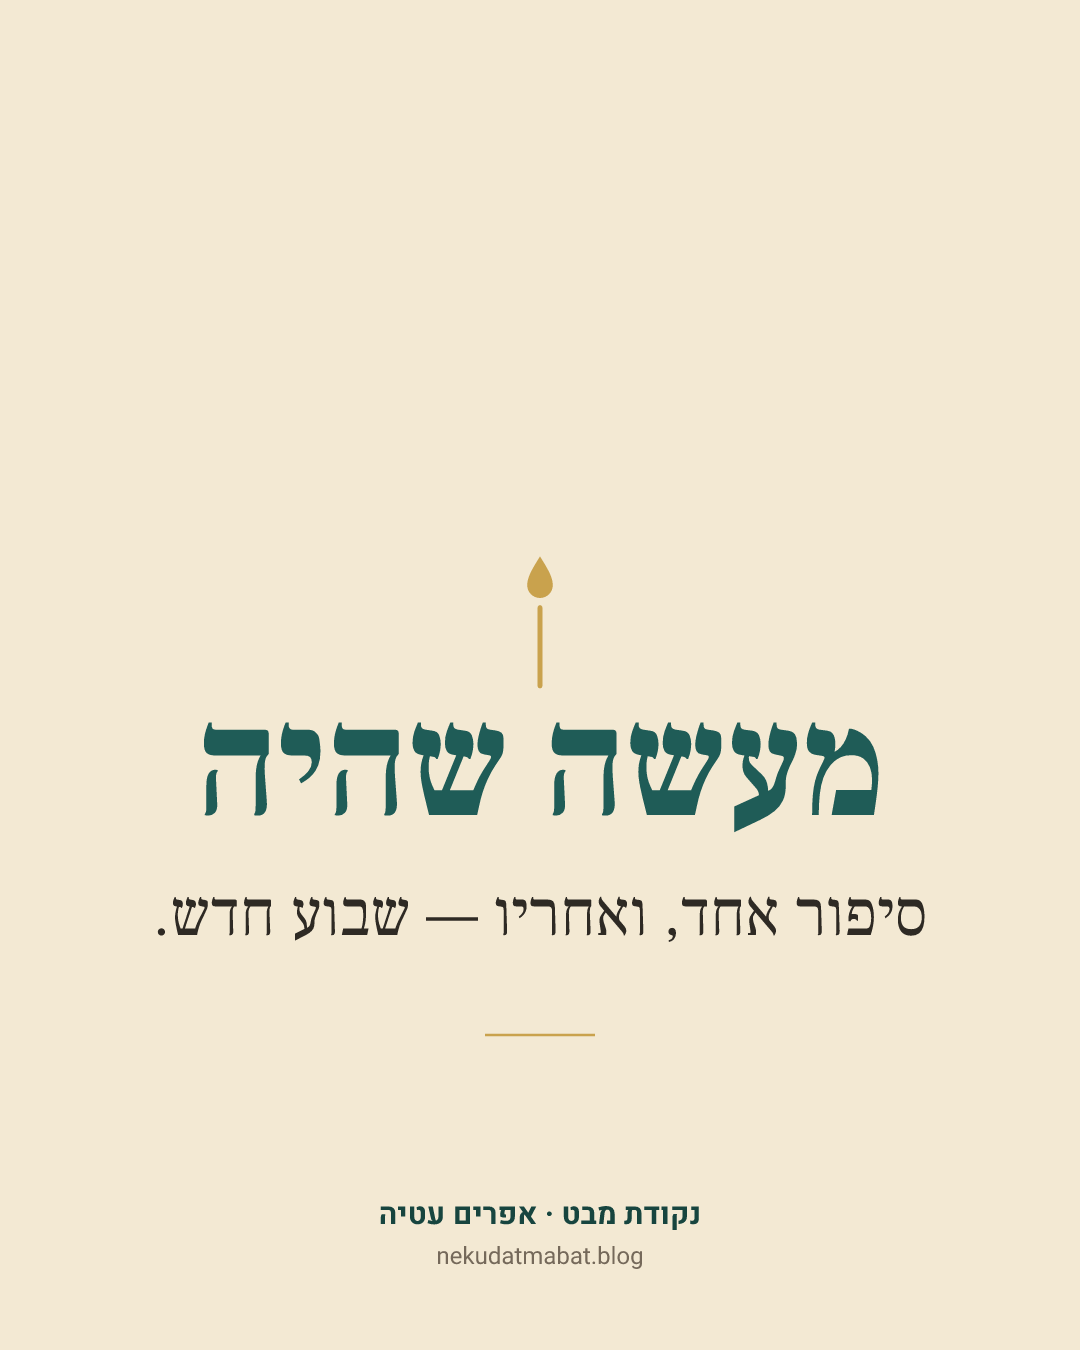
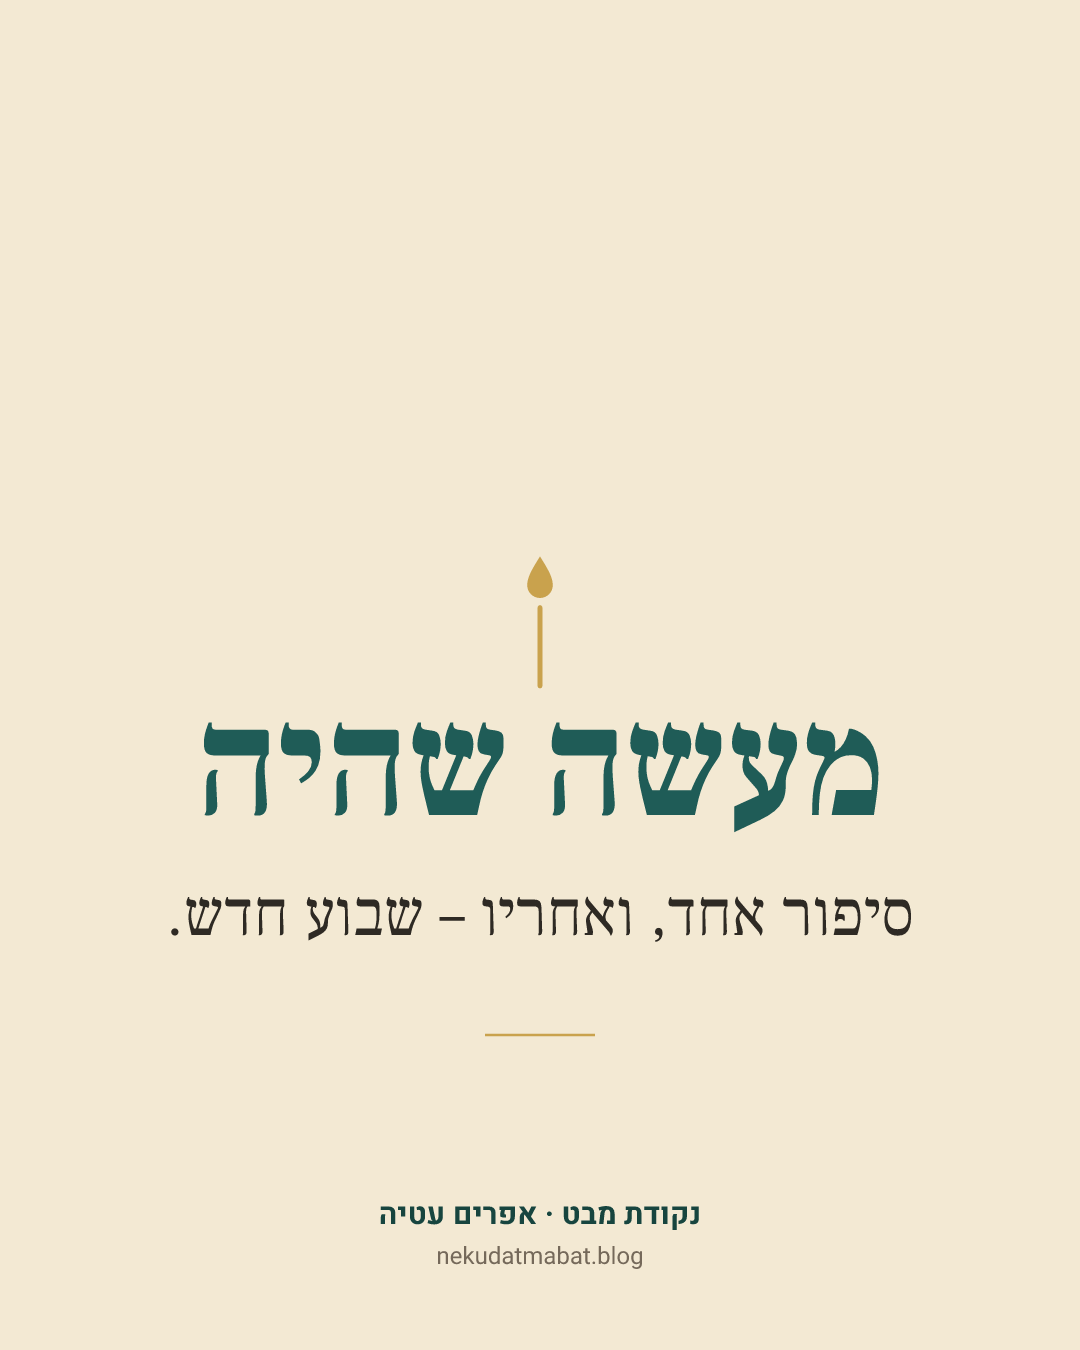
תמונת זהות "מעשה שהיה" — מקף קטן, מאושר, ומחוברת כ-og:image
הנוסח הסופי ("סיפור אחד, ואחריו – שבוע חדש.") עם מקף קצר במקום קו
מפריד ארוך. התמונה מחוברת עכשיו כתמונת שיתוף קבועה (ogImage) גם
בעמוד הסיפור וגם בארכיון /besht/ — נבדק בבנייה מלאה, כולל בדיקה
זמנית על עמוד סיפור מפורסם (הוחזר מיד לתאריך האמיתי). CLAUDE.md
עודכן עם תיעוד ההחלטה.

Claude-Session: https://claude.ai/code/session_013AKqYWm2Axng5udueZ17XZ

Changed region(s): [[0.4278, 0.6533, 0.8556, 0.7156], [0.1528, 0.6533, 0.3972, 0.7156]]

diff --git a/CLAUDE.md b/CLAUDE.md
@@ -433,6 +433,7 @@
   - **הצבע — הוחלט בהתחלה על סגול-דמדומים חדש (`--dusk: #4a3b63`), ותוקן לבקשת בעל הפרויקט.** הסגול הפריע לו: הוא ביקש לשמור על צבעי המותג הקיימים בלבד. הוצגו שתי הצעות אמיתיות (צילומי מסך של הקוד בפועל, לא סקיצה) — מיזוג "מעשה שהיה" לתוך כרטיס "מבט לשבת" הקיים, או השארת אותו מבנה עם **ירוק־כחול (`--teal`)** במקום סגול. **נבחרה ההצעה השנייה:** אותו מבנה בדיוק (מסגרת, חותם שעווה, כרטיס נפרד), רק בצבע `--teal` — אותו צבע בדיוק של עולם "סיפורי צדיקים", הגיוני כי סיפורי הבעל שם טוב הם למעשה תת-סוג שלהם. ה"מחשבה" בסוף כל סיפור עלתה במשקל ל-`--teal-deep` (כמו פסקת הציטוט בגוף הסיפור) כדי לשמור על הבחנה קלה בין השורה הראשית לטקסט התומך סביבה. `--dusk` הוסר לגמרי מהקוד — אין יותר צבע חדש באתר.
   - **תמונה זמנית**: כמו שערי הרגעים לפני שהגיעו הצילומים — איור SVG מופשט (`BeshtArt.astro`, נר הבדלה בשמי דמדומים, בלי דמויות) עד שבעל הפרויקט יכין צילום אמיתי; אז מתחלף לקובץ `cover` באוסף בלי לשנות את המסגרת שסביבו.
   - **החותמת הקבועה:** חותם שעווה עגול (SVG, נר) על קו התפר שבין התמונה לטקסט — אותו סמל ואותו מיקום בכל שבוע, גם בכרטיס דף הבית וגם בעמוד הסיפור.
+  - **תמונת שיתוף קבועה (og:image) — נבנתה ואושרה 2026-09-16.** קודם לכן כל שיתוף של סיפור מ"מעשה שהיה" בוואטסאפ נפל ללוגו (אין `cover` פר-סיפור, בכוונה — ראו "מה אני אצטרך כל פעם להעלות תמונה" בשיחה). **בעל הפרויקט יצר שתי הצעות בכלי AI חיצוני** (רקע קלף מרוקם, מסגרת מפוארת, סמל ספר+להבה+קרני אור) — נבדקו מול משמעת העיצוב הקבועה של האתר (בלי טקסטורה, בלי קישוט מעבר לקו זהב דק, "נקודה לא מילוי") ונמצאו לא מתאימות; הנוסח שבעל הפרויקט כתב ("סיפור אחד, ואחריו – שבוע חדש.") כן אומץ — טוב יותר מהניסיון הראשון שלי, כי הוא מתאר את תפקיד הפינה בלי לחזור על שמה. **הפתרון הסופי: אותו צינור resvg שכבר מייצר את תמונות הרגעים** (`scripts/render-besht-identity.mjs`, נוצרת פעם אחת ולא בכל בנייה) — נר קו-זהב בגודל מודגש (1.6x), "מעשה שהיה" בירוק־כחול (155px), שורת הזהות בדיו (65px), קו זהב, חתימה "נקודת מבט · אפרים עטיה" וכתובת האתר. כל רוחב שורה נבדק מראש מול שולי הכרטיס (opentype.js) לפני הגדלה, כדי לא לחרוג. **מחוברת** כ-`ogImage` גם בעמוד הסיפור וגם בארכיון (`/besht/`), דרך `getImage` של Astro — אותה תמונה בשני המקומות.
   - **הרעיון הנוסף (מנגנון ציפייה):** לפני שיצא סיפור ראשון, או בימים האחרונים שלפני מוצאי השבת הבא (חלון של יומיים), כרטיס דף הבית עובר ממצב מלא לספירה שקטה ("עוד 3 ימים · הסיפור הבא נפתח במוצאי שבת") — **בלי לחשוף כותרת או תקציר**, רק שמשהו מתוזמן ומתי. ה"הצצה" הזו לתאריך הסיפור הבא היא היוצא-דופן היחיד בכלל "רשת הביטחון": *מה* שנבנה בפועל (עמוד הסיפור, הארכיון, מפת האתר) ממשיך להיקבע אך ורק ע"י isPublished, בלי שום חריגה. מחושב בזמן הבנייה (כמו כל האתר) ולא באמת חי — מדויק כל עוד יש דחיפה/בנייה חדשה לפני מוצאי השבת, וזה כבר הקצב הרגיל של הפרויקט.
   - **לא נוסף לתפריט הראשי** — כלל הגדילה הקיים: עם סיפור אחד עדיין מוקדם, בדיוק כמו ש"רגעים" התחילו מנותקים מהניווט. נגישה מדף הבית, מ-`/besht/` ומהעמוד עצמו.
   - **תקלה שאותרה ותוקנה תוך כדי בדיקה בדפדפן:** `<header>` בעמוד הסיפור ירש `display:flex` גלובלי שחל על תג header בכל האתר (ל-header האתר עצמו, ממסך רחב) — **אותה תקלה קיימת כבר גם ב-`.story-header` של עמודי הסיפורים הרגילים** (אומת בצילום מסך אמיתי על סיפור קיים בייצור), לא משהו שנוצר כאן. תוקן מקומית בעמוד הסיפור החדש בלבד (`display:block` מפורש), בלי לגעת ב-Base.astro או בעמודי סיפורים קיימים — מחוץ להיקף המשימה הנוכחית, אך שווה טיפול נפרד בעתיד.
